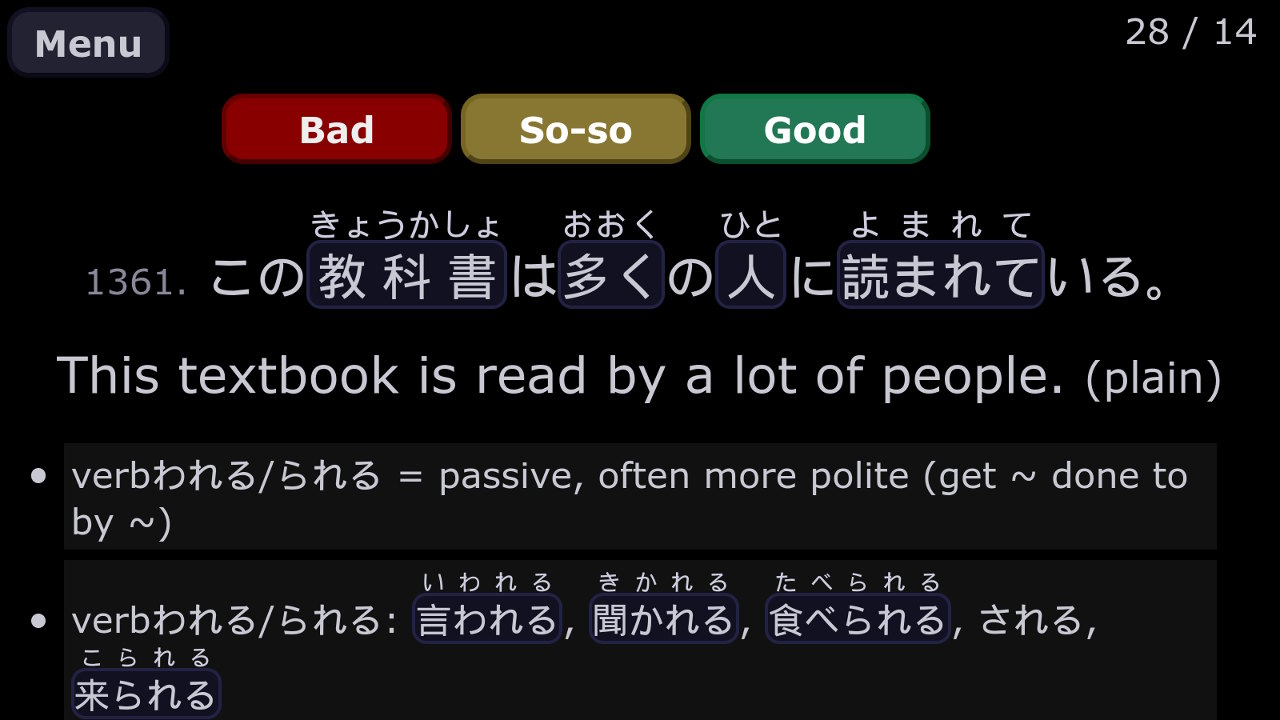
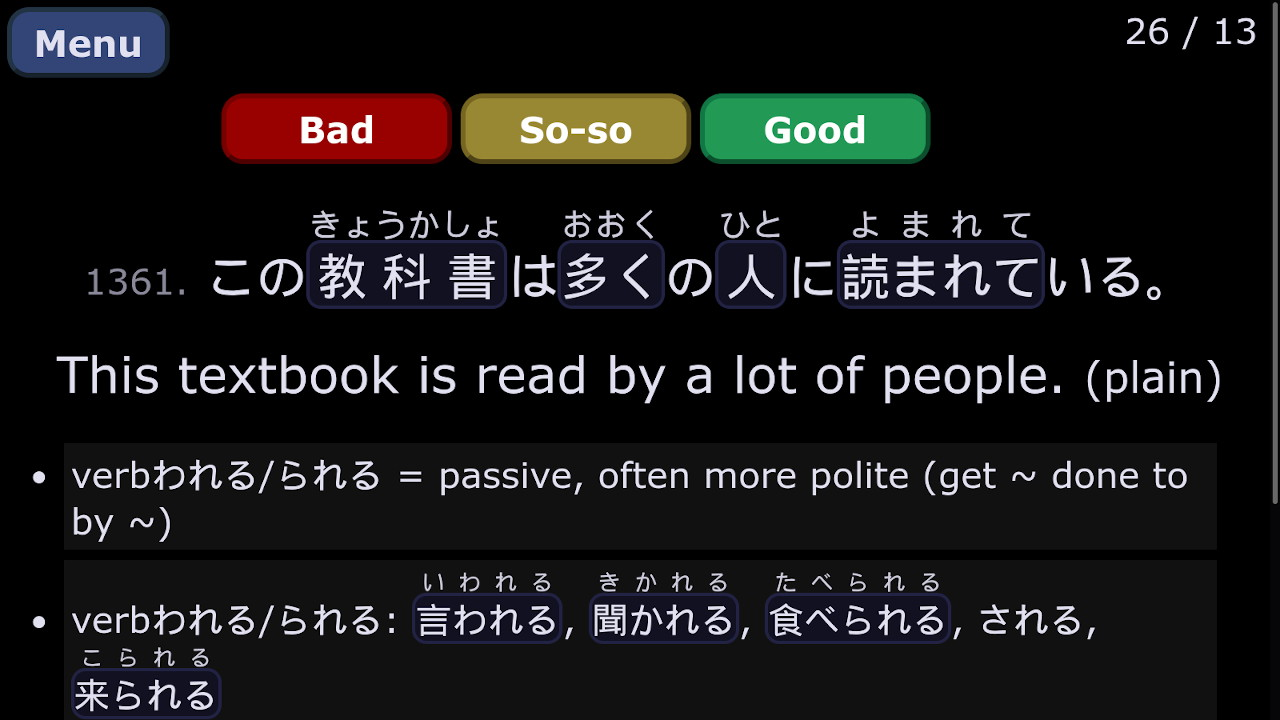
flashcards: increase brightness of UI controls

diff --git a/flashcards/flashcards.css b/flashcards/flashcards.css
@@ -1,6 +1,6 @@
 * {
   font-family: Verdana, sans-serif;
-  color: #c8c8d2;
+  color: #e0e0f0;
   margin: 0;
   padding: 0;
 }
@@ -157,19 +157,19 @@ a.button {
 }
 
 button#grade-bad {
-  background-color: #800;
-  color: #eee;
-  border-color: #600;
+  background-color: #900;
+  color: #ffffff;
+  border-color: #700;
 }
 
 button#grade-soso {
-  background-color: #873;
+  background-color: #983;
   color: #ffffff;
   border-color: #762;
 }
 
 button#grade-good {
-  background-color: #275;
+  background-color: #295;
   color: #ffffff;
   border-color: #174;
 }
@@ -184,17 +184,17 @@ div#stats {
 
 #all-cards-back,
 #menu-button {
-  background-color: #223;
-  border-color: #112;
+  background-color: #347;
+  border-color: #234;
   margin: 1vmin;
   padding: 1.2vmin 3vmin;
   font-family: Verdana, sans-serif;
 }
 
 #learn-button {
-  background-color: #163;
-  border-color: #141;
-  color: #ded;
+  background-color: #173;
+  border-color: #151;
+  color: #efe;
   transition: width 0.2s, height 0.2s, opacity 0.2s;
   width: auto;
   height: auto;
@@ -217,7 +217,6 @@ div#stats {
   min-width: 86vmin;
   min-height: 93vh;
   max-width: 93vw;
-  background-color: #111;
   transition: left 0.2s, opacity 0.2s;
   opacity: 1;
   box-shadow: 2vmin 2vmin 1vmin #060608;
@@ -242,13 +241,17 @@ div#stats {
   padding: 1.5vmin;
   min-width: 72vmin;
   text-decoration: none;
-  background-color: #111;
   transition: background-color 0.2s, color 0.2s;
   border-radius: 1vmin;
 }
 
+#menu,
+#menu a {
+  background-color: #181828;
+}
+
 #menu a:hover {
-  background-color: #223;
+  background-color: #235;
   color: #dde;
 }
 
@@ -346,10 +349,10 @@ div.input label {
 }
 
 div.input button {
-  border-color: #115;
+  border-color: #125;
   min-width: 20vw;
-  background-color: #226;
-  color: #eee;
+  background-color: #237;
+  color: #eef;
 }
 
 #no-cards {
